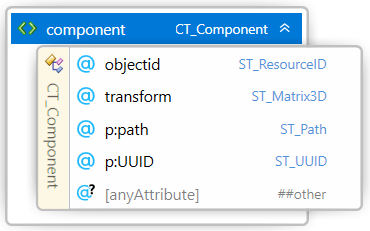
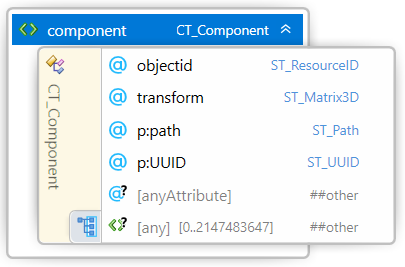
Mmodelresolution and schema updates

Changed region(s): [[0.0, 0.0, 0.9811, 1.0], [0.6838, 0.3333, 0.8919, 0.6364], [0.7432, 0.6667, 0.8919, 0.7576]]

diff --git a/3MF Production Extension.md b/3MF Production Extension.md
@@ -250,7 +250,7 @@ The \<alternatives> element group provides a way to specify alternative represen
 
 When this is used in conjunction with [the 3MF Secure Content Extension](https://github.com/3MFConsortium/spec_securecontent/blob/master/3MF%20Secure%20Content.md), some of those models might be protected with encryption and consumers might use an alterative representation were they have access.
 
-When several alternative representations, include the one in the root model, the consumer MAY decide which representation to choose from the ones that has rights. A consumer MAY select a fullres resolution over a lowres. And a printer might reject to print a lowres model.
+When several alternative representations, include the one in the root model, the consumer MAY decide which representation to choose from the ones that has rights. A consumer MAY select a fullres resolution over a lowres or obfuscated. And a printer might reject to print a lowres model.
 
 The producer MUST generate a 3MF file with no ambiguity for the consumer. When there is ambiguity, for example two fullres models available for a consumer, the consumer MAY decide which one to select, and the producer MAY not infer which one.
 
@@ -276,9 +276,11 @@ These two limitations ensure there is only a single level of "depth" to multi-fi
 
 The *modelresolution* element specify the intent of the model:
 
-* *fullres*: the model is a high resolution and it is intended for printing. It SHOULD be only one fullres model in the object.
-* *lowres*: the model is low resolution, for example for visualization purposes, and not intended for printing. Printers SHOULD reject lowres models.
-* *obfuscated*: the intent of the model is to provide a high resolution of the model by hiding some sensitive zones, for example, for privacy purposes. The model MIGHT still be printable. A printer SHOULD reject an obfuscated model unless specifically instructed.
+* *fullres*: the model is a high resolution and it is intended for printing. It MUST be only one "fullres" model in the object.
+* *lowres*: the model is low resolution, for example for visualization purposes.
+* *obfuscated*: the intent of the obfuscated model is to provide a modified version of the fullres model by hiding some condidentially sensitive zones. An "obfuscated" model MUST fully enclose the shape of the "fullres" version, for example, for packing purposes. 
+
+A printer MUST reject models without a "fullres" representation available for printing. For example, if the model file is encrypted the printer MUST be able to decrypt it.
 
 The *modelresolution* specified in the \<alternative> element overrides the optionally specified in the referenced model by the path.
 
@@ -383,8 +385,11 @@ See [the 3MF Core Specification glossary](https://github.com/3MFConsortium/spec_
 	</xs:complexType>
 	
 	<xs:complexType name="CT_Alternative">
+		<xs:sequence>
+			<xs:any namespace="##other" processContents="lax" minOccurs="0" maxOccurs="2147483647"/>
+		</xs:sequence>
 		<xs:attribute name="objectid" type="ST_ResourceID" use="required"/>
-        <xs:attribute name="UUID" type="ST_UUID" use="required"/>
+		<xs:attribute name="UUID" type="ST_UUID" use="required"/>
 		<xs:attribute name="path" type="ST_Path" use="required"/>
 		<xs:attribute name="modelresolution" type="ST_ModelResolution" default="fullres"/>
 		<xs:anyAttribute namespace="##other" processContents="lax"/>
